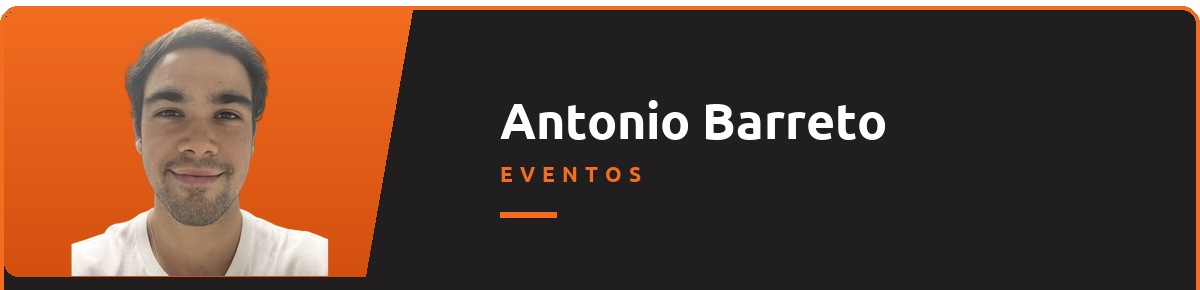
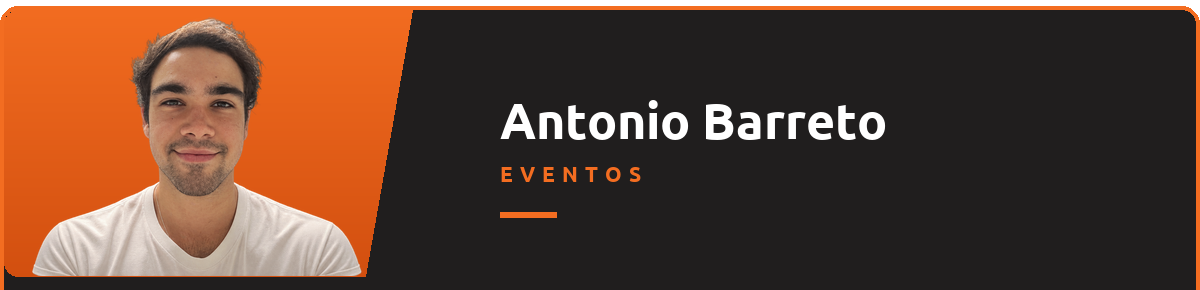
Antonio Barreto: foto nova, com os ombros inteiros

Changed region(s): [[0.0308, 0.0621, 0.3083, 0.9621]]

diff --git a/ferramentas/pessoas.py b/ferramentas/pessoas.py
@@ -297,11 +297,13 @@ PESSOAS = {
         "endereco": ENDERECO_SEDE,
         "maps": MAPS_SEDE,
         "foto": "antonio-barreto-limpo.png",
-        # selfie de 19/11/2026 (original 3088x2316 com EXIF girado -> 2316x3088,
-        # parede branca), reduzida a 1/3 (772x1029). birefnet-portrait: segurou
-        # a camiseta branca contra a parede branca. Borda clara (lum 137) = a
-        # camiseta, não halo. A selfie corta os ombros: o crop estoura as laterais.
-        "crop": (-137, 150, 889, 950),
+        # 2ª foto (19/11/2026, 1774x887, já sem fundo): a selfie de parede
+        # branca da 1ª, ampliada até os ombros inteiros - pelo nome do arquivo,
+        # por IA; o rosto é o mesmo. Usada como veio, só sem 4 pixels soltos:
+        # as pontas do cabelo têm o branco da parede embutido na cor (o
+        # pymatting clareou em vez de limpar), mas no card não aparece. O crop
+        # pega os dois ombros inteiros, sem corte reto nas laterais.
+        "crop": (315, -5, 1445, 876),
         "espelhar": False,
     },
 }
